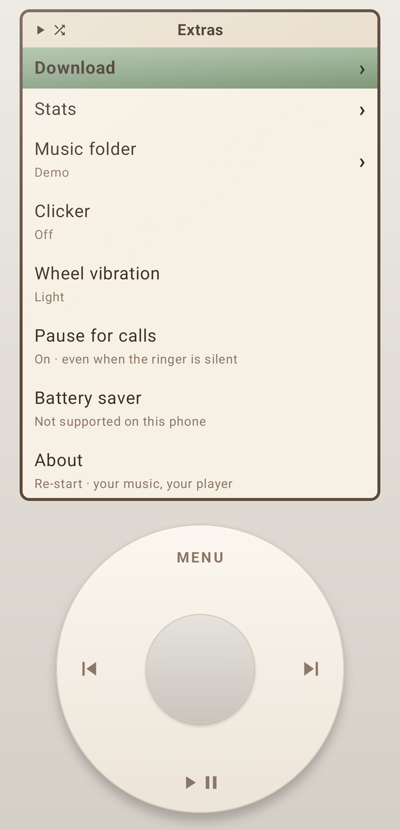
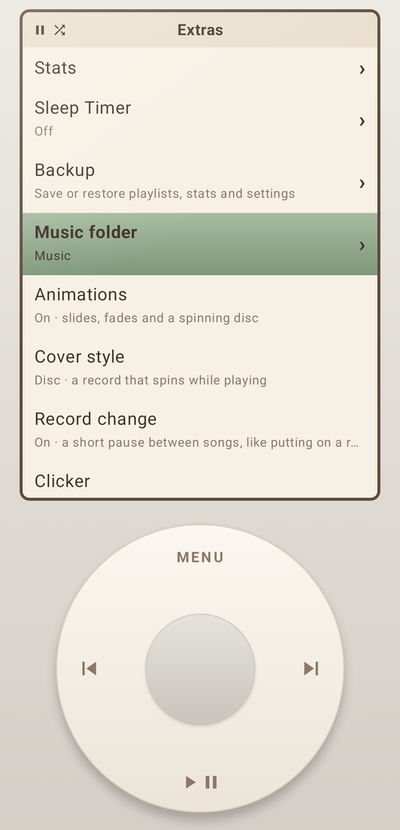
README: new screenshots (spinning disc, pinned playlist) and current features
Still made-up demo songs with drawn covers.

Changed region(s): [[0.03, 0.0301, 0.96, 0.6024], [0.84, 0.512, 0.87, 0.5422]]

diff --git a/README.md b/README.md
@@ -16,17 +16,27 @@
 - On Now Playing, the wheel is the volume; hold ⏮ / ⏭ to rewind or fast-forward
 - Light vibration on every step, and an optional click sound
 
+**Now Playing**
+- The cover as a record that spins while the music plays, and slides away for the next song
+- Record change: a short pause between songs, like putting on another record (can be turned off)
+- The background takes the cover's colors and fades from song to song
+- All the animations turn off with one switch in Extras
+
 **Your music**
 - Plays the songs in one folder of your choice (Music by default)
 - Playlists: create, rename, reorder, and pin your favorites to the main menu, where one press shuffles them
+- Search your songs, artists, albums and playlists
 - Synced lyrics: press the center on Now Playing (reads `.lrc` files next to your songs)
-- Shuffle, repeat, Up Next, and stats on what you play most
+- Shuffle, repeat, Up Next, and a sleep timer that fades the music out
+- Stats on what you play most, and your listening history month by month
+- Delete a song from the app (from your phone and every playlist)
+- Back up and restore your playlists, stats and settings to a file
 - Keeps playing in the background, with lock screen and headphone controls; can pause for phone calls even on silent
 
 **New music** (needs internet)
 - **Start Mix** on any song: like YouTube Music's "Start radio". Songs you have play from your phone, the others stream
 - **For You**: 30 new songs a day, picked from the radios of the songs you play most
-- **Download**: paste a YouTube or YouTube Music link to save a song, with its cover and synced lyrics (from [LRCLIB](https://lrclib.net)), or import a whole playlist
+- **Download**: paste a YouTube or YouTube Music link to save a song, with its cover and synced lyrics (from [LRCLIB](https://lrclib.net)), or import a whole playlist into a new or existing one (songs you already have aren't downloaded again; for a song that fails, Re-start can look for the same song elsewhere)
 
 ## Install
 
